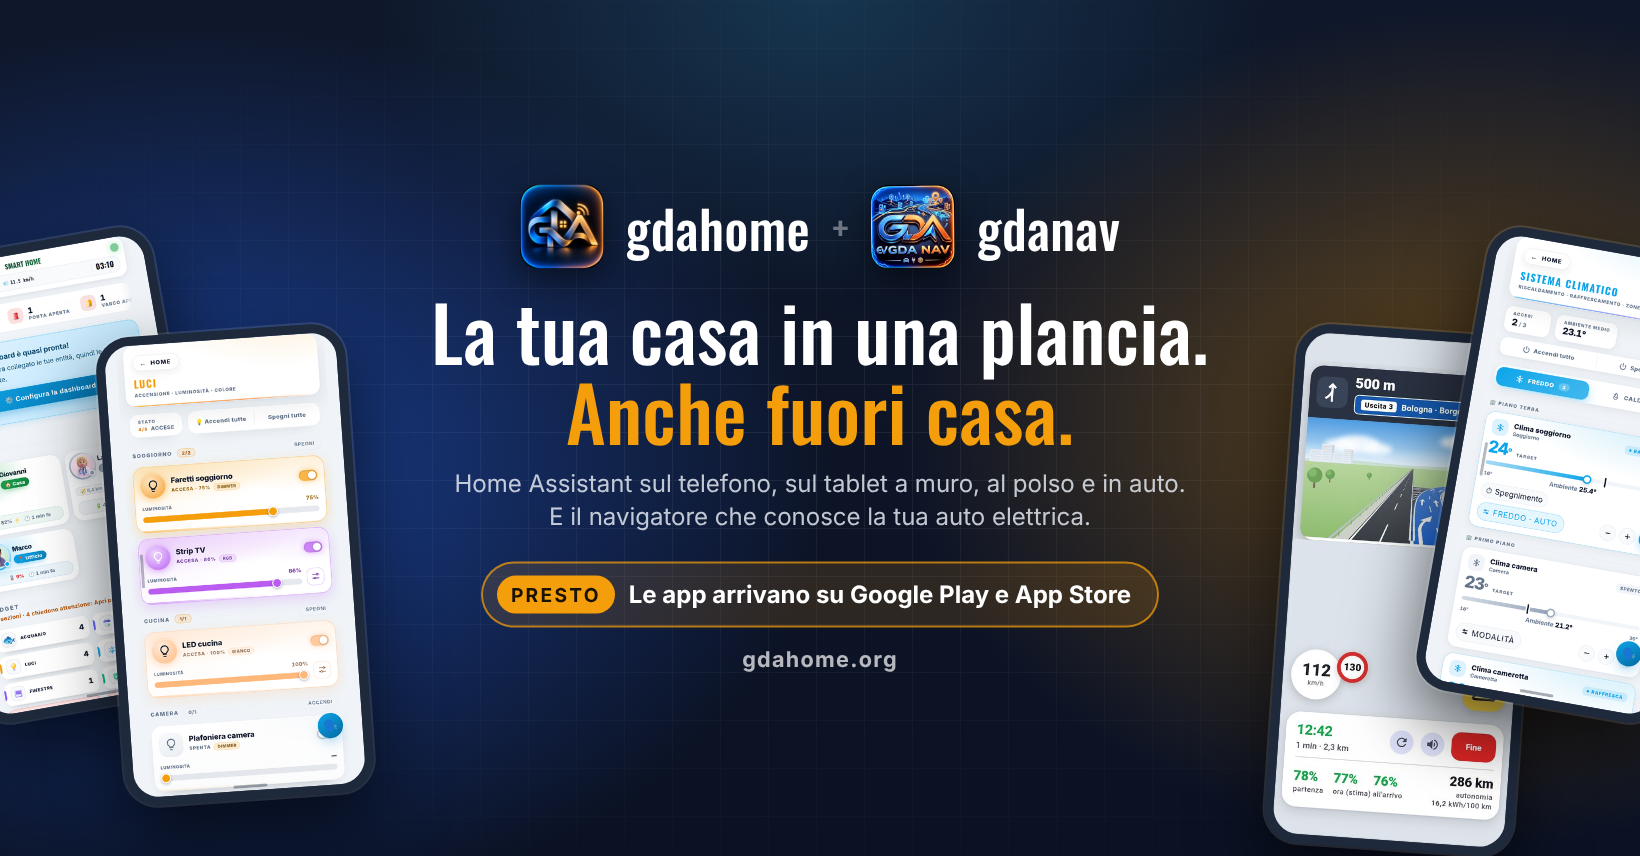
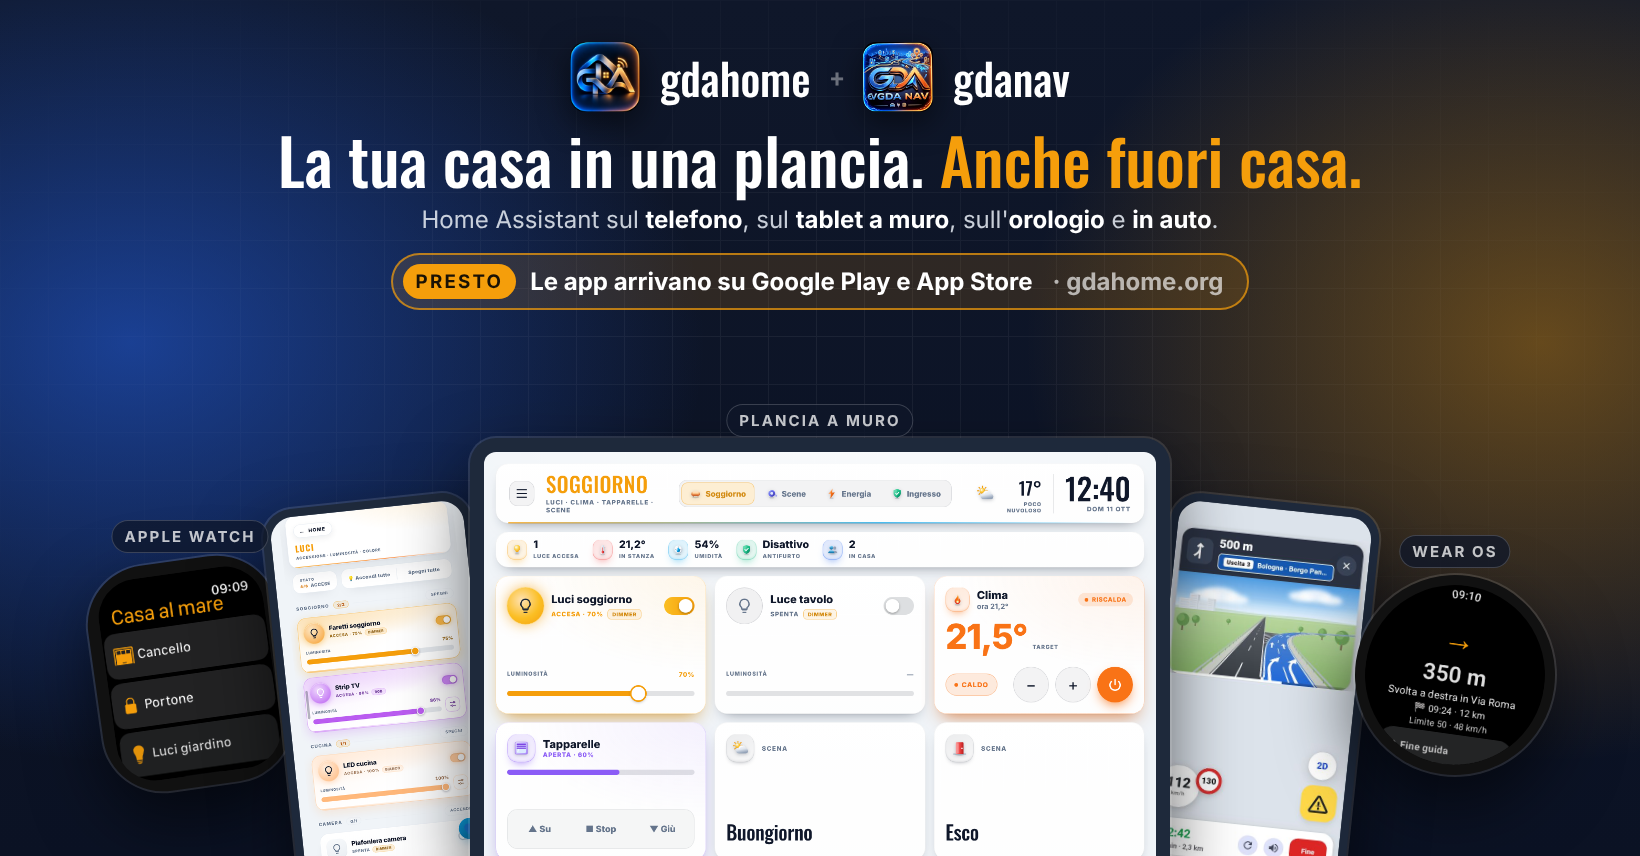
Copertine Facebook: la plancia a muro e gli orologi
Al centro il tablet a muro (fotografato dal pannello vero con la casa delle
prove e2e), ai lati i due telefoni, l'Apple Watch e Wear OS (le schermate
dei rami vetrina/apple-watch e vetrina/wear-os).

Claude-Session: https://claude.ai/code/session_01LQpZqmijsqcuP1czPGayJA

diff --git a/facebook/copertina.html b/facebook/copertina.html
@@ -1,51 +1,66 @@
 <!doctype html>
 <html lang="it"><head><meta charset="utf-8">
+<!-- Copertine Facebook di gdahome. Si rifanno con strumenti di Playwright:
+     la pagina legge ?w=&h= e mette scritte e dispositivi nelle due misure. -->
 <style>
 @font-face{font-family:Inter;font-weight:400;src:url(../sito/statico/font/inter-latin-400-normal.woff2)}
 @font-face{font-family:Inter;font-weight:700;src:url(../sito/statico/font/inter-latin-700-normal.woff2)}
 @font-face{font-family:Oswald;font-weight:500;src:url(../sito/statico/font/oswald-latin-500-normal.woff2)}
-:root{--notte:#0b1224;--ambra:#f59e0b;--azzurro:#38bdf8}
+:root{--ambra:#f59e0b}
 *{box-sizing:border-box;margin:0;padding:0}
-html,body{width:var(--w);height:var(--h);overflow:hidden;background:var(--notte)}
+html,body{width:var(--w);height:var(--h);overflow:hidden;background:#0b1224}
 body{font-family:Inter,sans-serif;color:#fff;position:relative}
-.fondo{position:absolute;inset:0;
-  background:
-   radial-gradient(ellipse 55% 75% at 12% 55%, rgba(37,99,235,.55), transparent 70%),
-   radial-gradient(ellipse 50% 70% at 90% 50%, rgba(245,158,11,.38), transparent 70%),
-   radial-gradient(ellipse 40% 50% at 50% 0%, rgba(56,189,248,.18), transparent 70%),
-   linear-gradient(180deg,#0f172a,#0b1224)}
-.griglia{position:absolute;inset:0;opacity:.07;
+.fondo{position:absolute;inset:0;background:
+  radial-gradient(ellipse 50% 70% at 8% 40%,rgba(37,99,235,.55),transparent 70%),
+  radial-gradient(ellipse 45% 70% at 94% 40%,rgba(245,158,11,.38),transparent 70%),
+  radial-gradient(ellipse 45% 40% at 50% 100%,rgba(56,189,248,.22),transparent 70%),
+  linear-gradient(180deg,#0f172a,#0b1224)}
+.griglia{position:absolute;inset:0;opacity:.06;
   background-image:linear-gradient(#fff 1px,transparent 1px),linear-gradient(90deg,#fff 1px,transparent 1px);
-  background-size:48px 48px;mask-image:radial-gradient(ellipse 60% 60% at 50% 50%,#000,transparent)}
-.tel{position:absolute;border-radius:34px;padding:9px;background:#1e293b;
-  box-shadow:0 0 0 2px rgba(255,255,255,.12),0 30px 70px rgba(0,0,0,.6);overflow:hidden}
-.tel img{display:block;width:100%;border-radius:26px}
-.centro{position:absolute;left:50%;top:50%;transform:translate(-50%,-50%);width:1000px;text-align:center}
-.marchi{display:flex;align-items:center;justify-content:center;gap:22px;margin-bottom:22px}
+  background-size:48px 48px;mask-image:radial-gradient(ellipse 60% 60% at 50% 40%,#000,transparent)}
+.testo{position:absolute;left:0;right:0;text-align:center}
+.marchi{display:flex;align-items:center;justify-content:center;gap:calc(var(--icona)*.28)}
 .marchi img{width:var(--icona);height:var(--icona);border-radius:22%;box-shadow:0 10px 30px rgba(0,0,0,.5)}
-.marchi span{font-family:Oswald;font-weight:500;font-size:calc(var(--icona)*.62);letter-spacing:.01em}
+.marchi img.nav{border-radius:18%}
+.marchi span{font-family:Oswald;font-weight:500;font-size:calc(var(--icona)*.62)}
 .marchi .piu{color:rgba(255,255,255,.4);font-size:calc(var(--icona)*.45)}
-h1{font-family:Oswald;font-weight:500;font-size:var(--titolo);line-height:1.05;letter-spacing:.005em}
+h1{font-family:Oswald;font-weight:500;font-size:var(--titolo);line-height:1.05;margin-top:calc(var(--titolo)*.22)}
 h1 em{font-style:normal;color:var(--ambra)}
-.sotto{margin-top:16px;font-size:var(--testo);color:rgba(226,232,240,.85);line-height:1.4}
-.presto{display:inline-flex;align-items:center;gap:14px;margin-top:28px;padding:12px 26px 12px 14px;
-  border-radius:999px;background:rgba(245,158,11,.14);border:2px solid rgba(245,158,11,.7)}
-.presto b{background:var(--ambra);color:#1a1205;font-size:calc(var(--testo)*.8);letter-spacing:.12em;
-  padding:7px 14px;border-radius:999px;text-transform:uppercase}
-.presto span{font-size:var(--testo);font-weight:700}
-.sito{margin-top:18px;font-weight:700;font-size:calc(var(--testo)*.9);color:rgba(255,255,255,.7);letter-spacing:.06em}
+.sotto{margin-top:calc(var(--testo)*.5);font-size:var(--testo);color:rgba(226,232,240,.88)}
+.sotto b{color:#fff}
+.presto{display:inline-flex;align-items:center;gap:14px;margin-top:calc(var(--testo)*.8);padding:9px 24px 9px 10px;
+  border-radius:999px;background:rgba(245,158,11,.14);border:2px solid rgba(245,158,11,.7);font-size:var(--testo)}
+.presto b{background:var(--ambra);color:#1a1205;font-size:.78em;letter-spacing:.12em;padding:6px 13px;border-radius:999px;text-transform:uppercase}
+.presto span{font-weight:700}
+.presto i{font-style:normal;color:rgba(255,255,255,.65);font-weight:700;margin-left:6px}
+.dev{position:absolute;box-shadow:0 0 0 2px rgba(255,255,255,.12),0 30px 70px rgba(0,0,0,.6);overflow:hidden;background:#1e293b}
+.dev img{display:block;width:100%}
+.tablet{border-radius:26px;padding:14px}
+.tablet img{border-radius:12px}
+.tel{border-radius:30px;padding:8px}
+.tel img{border-radius:23px}
+.aw{border-radius:32%/26%;padding:12px;background:#111}
+.aw img{border-radius:24%/19%}
+.wo{border-radius:50%;padding:10px;background:#111}
+.wo img{border-radius:50%}
+.etichetta{position:absolute;font-weight:700;font-size:15px;letter-spacing:.14em;text-transform:uppercase;
+  color:rgba(255,255,255,.75);background:rgba(15,23,42,.75);border:1px solid rgba(255,255,255,.18);
+  padding:6px 12px;border-radius:999px;white-space:nowrap;transform:translateX(-50%)}
 </style></head>
 <body>
 <div class="fondo"></div><div class="griglia"></div>
-<div class="tel" id="t1"><img src="../sito/statico/schermate/1-la-plancia.png"></div>
-<div class="tel" id="t2"><img src="../sito/statico/schermate/3-le-luci.png"></div>
-<div class="tel" id="t3"><img src="../sito/statico/gdanav/guida-svincolo.jpg"></div>
-<div class="tel" id="t4"><img src="../sito/statico/schermate/4-il-clima.png"></div>
-<div class="centro">
-  <div class="marchi"><img src="../sito/statico/marchio.png"><span>gdahome</span><span class="piu">+</span><img src="gdanav-icona.png"><span>gdanav</span></div>
-  <h1>La tua casa in una plancia.<br><em>Anche fuori casa.</em></h1>
-  <p class="sotto">Home Assistant sul telefono, sul tablet a muro, al polso e in auto.<br>E il navigatore che conosce la tua auto elettrica.</p>
-  <div class="presto"><b>Presto</b><span>Le app arrivano su Google Play e App Store</span></div>
-  <div class="sito">gdahome.org</div>
+<div class="dev aw" id="aw"><img src="apple-watch.png"></div>
+<div class="dev tel" id="t1"><img src="../sito/statico/schermate/3-le-luci.png"></div>
+<div class="dev tel" id="t2"><img src="../sito/statico/gdanav/guida-svincolo.jpg"></div>
+<div class="dev wo" id="wo"><img src="wear-os.png"></div>
+<div class="dev tablet" id="tab"><img src="muro.png"></div>
+<div class="etichetta" id="e-tab">Plancia a muro</div>
+<div class="etichetta" id="e-aw">Apple Watch</div>
+<div class="etichetta" id="e-wo">Wear OS</div>
+<div class="testo" id="testo">
+  <div class="marchi"><img src="../sito/statico/marchio.png"><span>gdahome</span><span class="piu">+</span><img class="nav" src="gdanav-icona.png"><span>gdanav</span></div>
+  <h1>La tua casa in una plancia. <em>Anche fuori casa.</em></h1>
+  <p class="sotto">Home Assistant sul <b>telefono</b>, sul <b>tablet a muro</b>, sull'<b>orologio</b> e <b>in auto</b>.</p>
+  <div class="presto"><b>Presto</b><span>Le app arrivano su Google Play e App Store</span><i>· gdahome.org</i></div>
 </div>
 </body></html>
